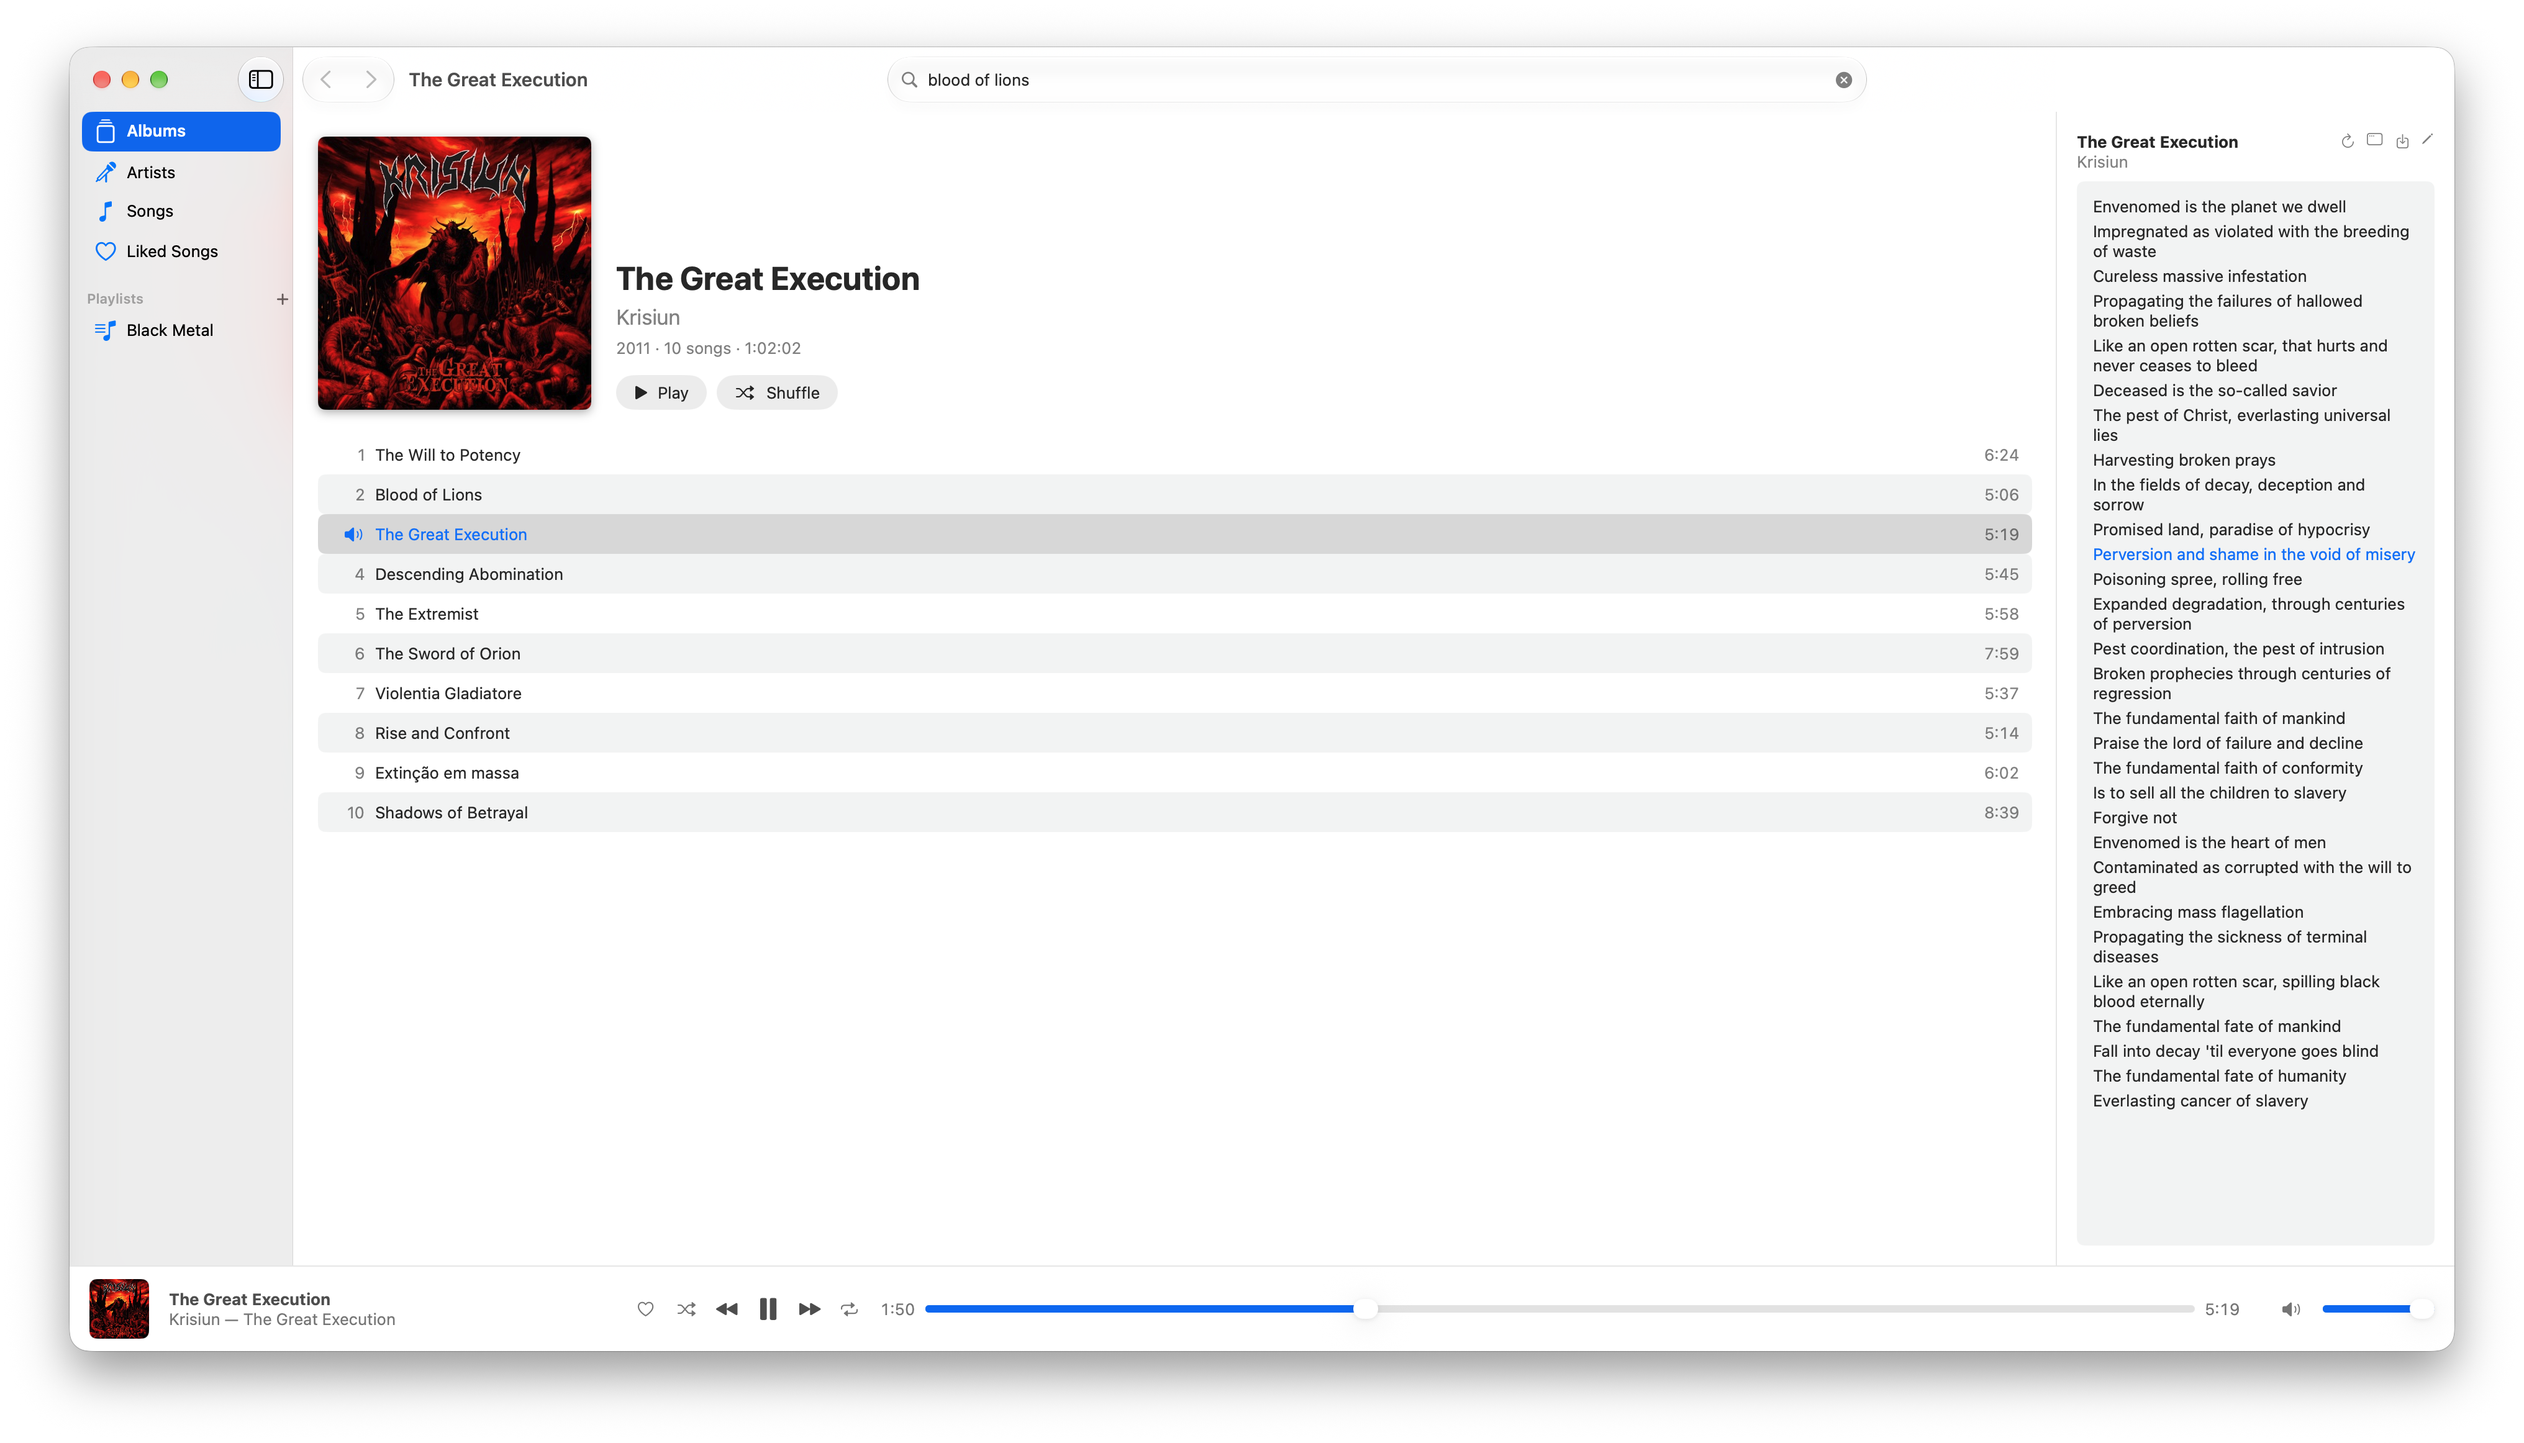
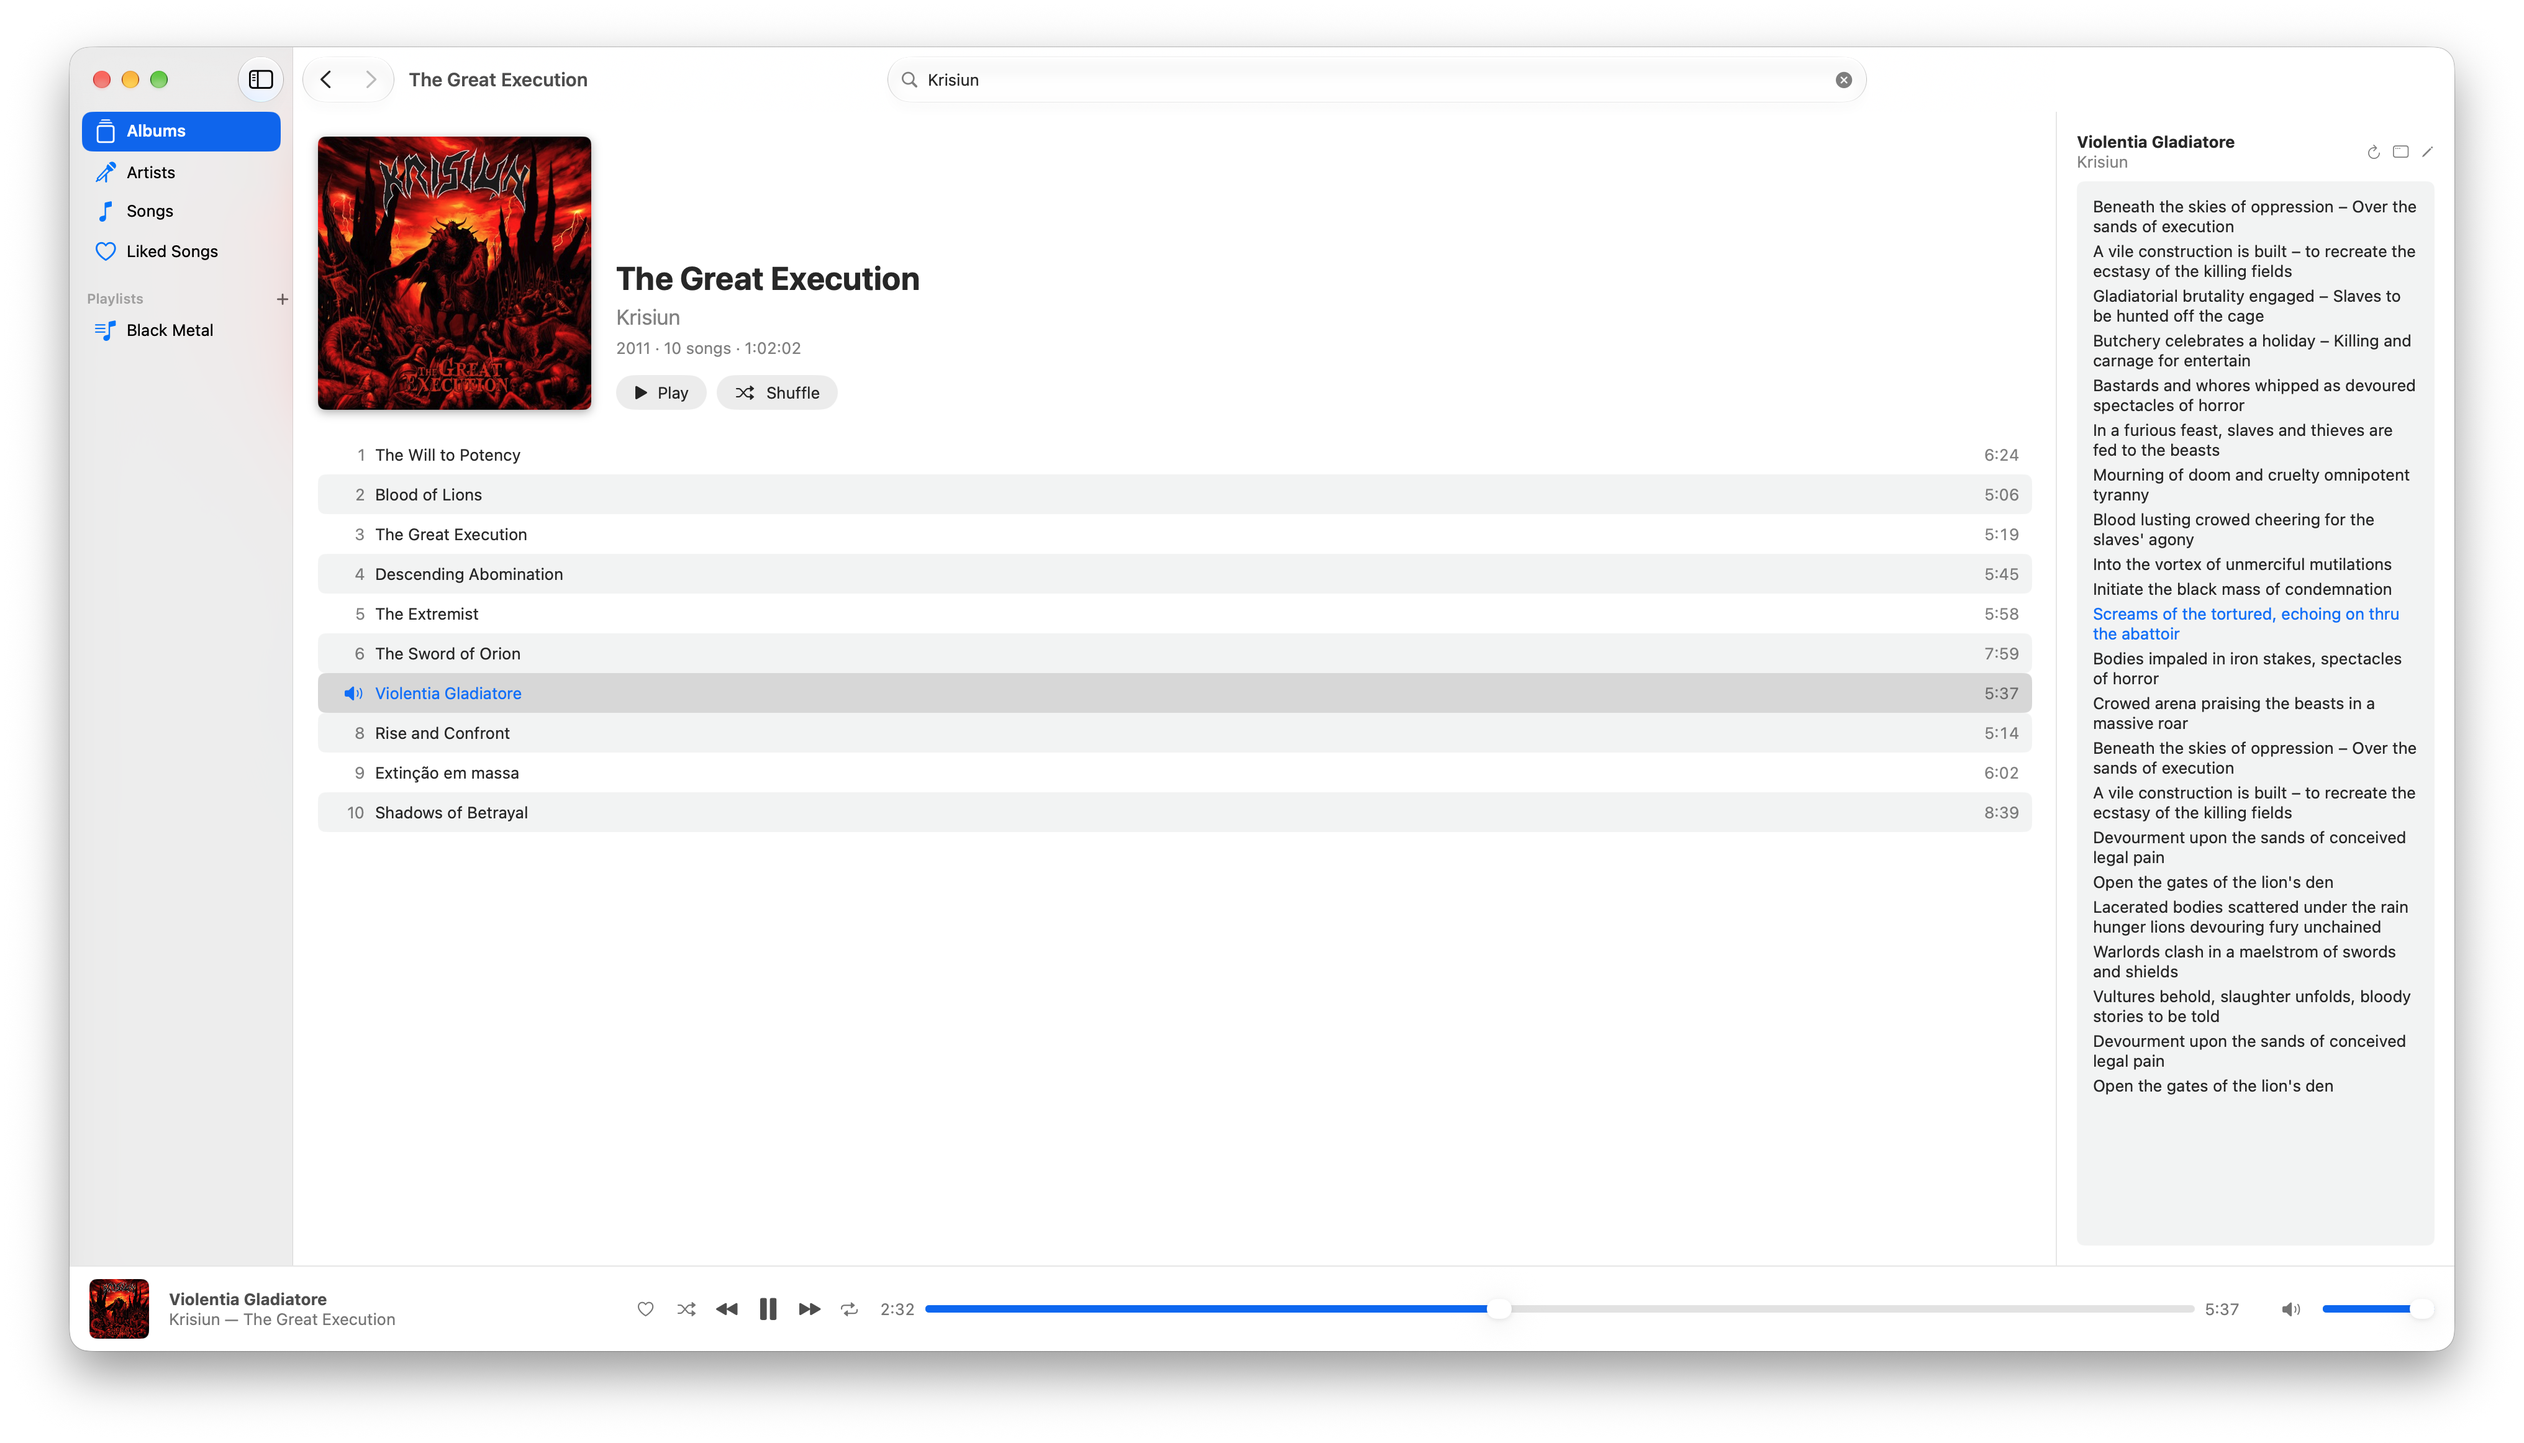
Hide refresh button when local .lrc exists (dock + popup)
- Added Lyrics.hasLocalLyrics computed property
- Refresh button hidden in both LyricsView (dock) and FloatingLyrics (popup) when local .lrc present
- User can still edit local lyrics; refresh only available for remote/cached lyrics

diff --git a/Sources/Overdrive/Views.swift b/Sources/Overdrive/Views.swift
@@ -229,10 +229,12 @@ struct LyricsView: View {
                         if lyrics.loading {
                             ProgressView().controlSize(.small)
                         }
-                        Button("Refresh", systemImage: "arrow.clockwise", action: lyrics.refresh)
-                            .labelStyle(.iconOnly)
-                            .buttonStyle(.borderless)
-                            .controlSize(.small)
+                        if !lyrics.hasLocalLyrics {
+                            Button("Refresh", systemImage: "arrow.clockwise", action: lyrics.refresh)
+                                .labelStyle(.iconOnly)
+                                .buttonStyle(.borderless)
+                                .controlSize(.small)
+                        }
                         Button("Show in a Floating Window", systemImage: "macwindow") { lyrics.floating = true }
                             .labelStyle(.iconOnly)
                             .buttonStyle(.borderless)

diff --git a/Sources/Overdrive/LyricsPanel.swift b/Sources/Overdrive/LyricsPanel.swift
@@ -66,6 +66,12 @@ struct FloatingLyrics: View {
                         if lyrics.loading {
                             ProgressView().controlSize(.small)
                         }
+                        if !lyrics.hasLocalLyrics {
+                            Button("Refresh", systemImage: "arrow.clockwise", action: lyrics.refresh)
+                                .labelStyle(.iconOnly)
+                                .buttonStyle(.borderless)
+                                .controlSize(.small)
+                        }
 
                         if !lyrics.text.isEmpty, lyrics.remote {
                             Button("Save next to the song", systemImage: "square.and.arrow.down", action: lyrics.persist)

diff --git a/Sources/Overdrive/Lyrics.swift b/Sources/Overdrive/Lyrics.swift
@@ -28,6 +28,10 @@ final class Lyrics {
     var visible = false
     var floating = false
     private(set) var remote = false
+    var hasLocalLyrics: Bool {
+        guard let track else { return false }
+        return (Self.read(file(track)) ?? "").isEmpty == false
+    }
 
     @ObservationIgnored private let cache: URL
     @ObservationIgnored private var saver: Task<Void, Never>?
